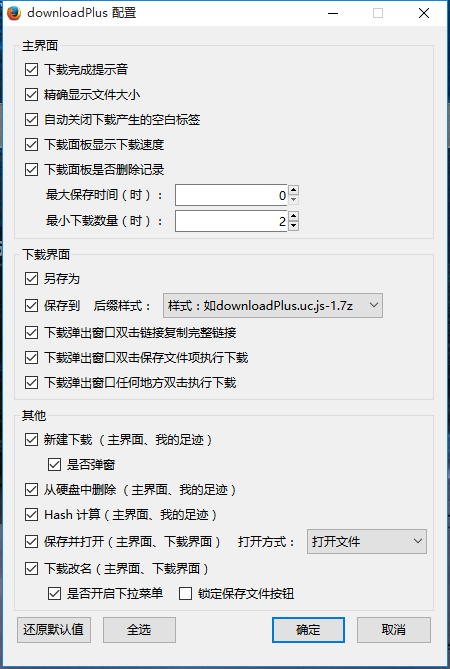
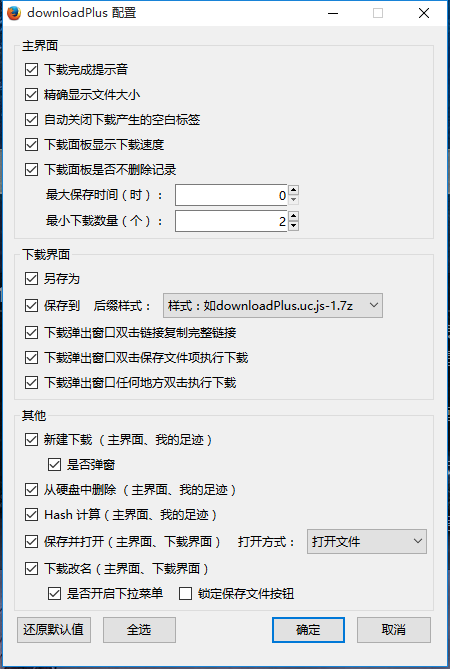
2015.10.01 update
delete console.log(...)
update setting.png

diff --git a/.test/newDownloadPlus.uc.js b/.test/newDownloadPlus.uc.js
@@ -1180,7 +1180,6 @@
 			}
 		},
 		dontRemoveFinishedDownloads: function(enable) {
-			console.log("start");
 			var {DownloadIntegration} = Cu.import("resource://gre/modules/DownloadIntegration.jsm", {});
 			var store = DownloadIntegration._store;
 			if (!enable) {
@@ -1204,19 +1203,14 @@
 				}
 				var MaxRetentionHours = self.getPrefs(1, "download_dontRemoveFinishedDownloads_MaxRetentionHours");
 				var MinStoreThreshold = self.getPrefs(1, "download_dontRemoveFinishedDownloads_MinStoreThreshold");
-				console.log(MaxRetentionHours, MinStoreThreshold);
 				var downloads = DownloadIntegration._store.list._downloads;
-				console.log(downloads);
 				if (MinStoreThreshold <= downloads.length) {
 					return true;
 				}
 				// var leaveTime = downloads[Math.max(0, dlCount - 1 - minStore)].startTime;
 				var older = Date.now() - MaxRetentionHours*60*60*1000;
-				console.log(download.startTime > older);
 				return download.startTime > older;
 			};
-			console.log(wrapped);
-			console.log(DownloadIntegration.shouldPersistDownload);
 			store.onsaveitem = wrapped;
 		},
 	};
